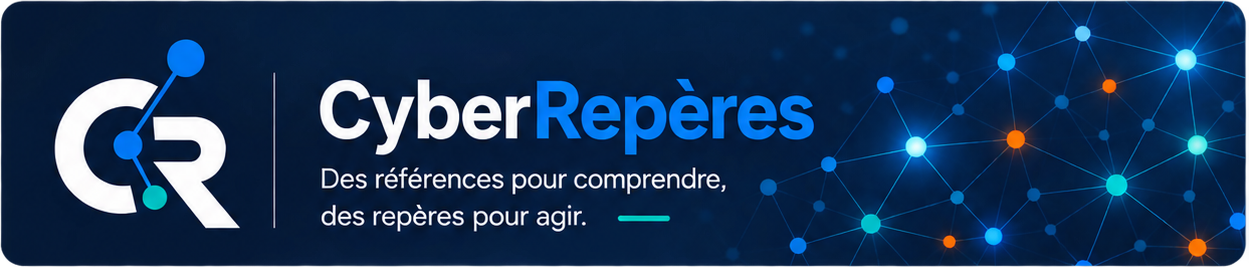
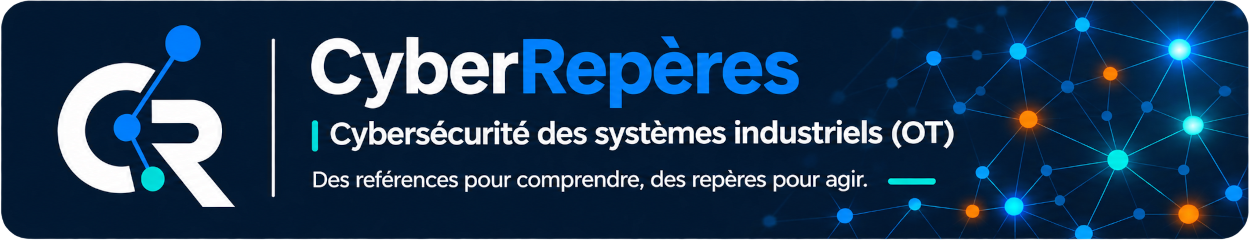
Ajout du catalogue des livrables et mise à jour de la bannière

diff --git a/comprendre/doc-livrables.md b/comprendre/doc-livrables.md
@@ -1,0 +1,179 @@
+---
+layout: default
+title: "Catalogue des livrables de cybersécurité industrielle"
+description: "Identifier les documents, analyses et éléments de preuve utiles à la maîtrise de la cybersécurité des systèmes industriels."
+category: "comprendre"
+date: 2026-11-01
+tags:
+  - livrables
+  - documentation
+  - référentiels
+  - IEC 62443
+  - cybersécurité industrielle
+revision: 2026-11-01
+chapter: "Documentation"
+order: 40
+comments: true
+---
+
+# Catalogue des livrables de cybersécurité industrielle
+
+La cybersécurité industrielle se traduit par des activités, des décisions et des mesures techniques. Pour être pilotées, vérifiées et maintenues dans le temps, celles-ci doivent également être **formalisées et tracées**.
+
+Ce catalogue recense des documents, analyses, dossiers et éléments de preuve susceptibles d'être produits dans le cadre d'un projet industriel ou de l'exploitation d'un système OT.
+
+Il a pour objectif d'aider les équipes projet, les exploitants, les métiers et les acteurs de la cybersécurité à répondre à plusieurs questions :
+
+- Quels livrables prévoir pour maîtriser la cybersécurité d'un système industriel ?
+- À quoi servent-ils et quelles activités permettent-ils de formaliser ?
+- Quels référentiels ou textes peuvent justifier leur production ?
+- Comment distinguer une exigence explicite d'un livrable utile pour démontrer un résultat attendu ?
+
+Le catalogue est un **outil de repérage et de travail**. Il ne constitue ni une liste universelle de documents obligatoires, ni un modèle documentaire à appliquer systématiquement à chaque projet.
+
+---
+
+## Consulter le catalogue détaillé
+
+Le fichier Excel constitue le support détaillé et évolutif du catalogue. Il présente, pour chaque livrable, son domaine, le niveau de besoin, les sources primaires identifiées, les éléments justifiant son intérêt, les dépendances possibles et les correspondances indicatives avec l'IEC 62443-2-1:2024.
+
+[ Télécharger le catalogue des livrables – format Excel ]({{ '/comprendre/sources/CyberReperes_catalogue_livrables_v2.4.xlsx' | relative_url }})
+
+---
+
+## Comprendre les niveaux de besoin
+
+Les livrables sont classés selon trois niveaux. Cette classification vise à éviter de présenter comme une obligation documentaire ce qui relève parfois d'un moyen d'ingénierie ou d'une bonne pratique.
+
+### 1 — Exigence
+
+Le texte réglementaire ou le référentiel applicable demande explicitement le document, l'information ou l'activité correspondante.
+
+**Attention :** l'exigence dépend toujours du champ d'application du texte, du type d'entité, du système concerné et du contexte réglementaire ou contractuel.
+
+### 2 — Induit
+
+Le référentiel impose un objectif ou un résultat. Le livrable identifié constitue un moyen structuré et pertinent pour le démontrer, sans que le document soit nécessairement nommé ou imposé sous cette forme.
+
+### 3 — Bonne pratique
+
+Le livrable facilite le cadrage, la conception, la contractualisation, la vérification, la traçabilité ou le transfert vers l'exploitation. Aucune exigence explicite imposant ce document sous cette appellation n'a été identifiée dans les sources examinées.
+
+### Une classification à contextualiser
+
+Un même livrable peut changer de niveau selon le périmètre étudié. Une cartographie peut, par exemple, relever d'une exigence réglementaire pour un SIIV, tandis qu'elle répondra à un autre cadre d'exigences dans un environnement différent.
+
+Le niveau indiqué dans le catalogue doit donc être lu avec les références et les réserves associées à chaque ligne. **L'absence d'une exigence explicite ne signifie pas qu'un livrable est inutile.**
+
+---
+
+## Panorama des livrables recensés
+
+La liste ci-dessous donne une vue d'ensemble des livrables recensés dans la version 2.4 du catalogue. Les intitulés sont regroupés par grands domaines pour faciliter la lecture ; certains documents peuvent naturellement relever de plusieurs domaines.
+
+### Gouvernance, conformité et gestion des risques
+
+- Politique de sécurité des systèmes d'information (PSSI)
+- Analyse de conformité du SI
+- Analyse de risques
+- Plan d'action de traitement des risques
+- Dossier d'homologation
+- Programme / stratégie d'exercices cyber
+- Dossier des exigences cyber applicables
+- Matrice de traçabilité des exigences
+- Dossier de mesures compensatoires
+
+### Architecture, cartographie et conception
+
+- Cartographie des systèmes d'information
+- Cartographie SIIV
+- Cartographie et inventaires
+- Dossier d'architecture technique (DAT)
+- Réseau / architecture d'administration dédiée
+- Dossier d'administration sécurisée
+- Dossier d'interconnexion
+- Architecture zones & conduits
+- Dossier de conception logicielle sécurisée
+- Dossier d'interfaces applicatives
+- Dossier de configuration PLC
+
+### Continuité, résilience et exploitation
+
+- Plan de continuité d'activité (PCA) / Plan de reprise d'activité (PRA)
+- DMIA / PRD documentés
+- Analyse d'impact sur l'activité (BIA)
+- Procédures de sauvegarde et restauration
+- Dossier de résilience / analyse des points uniques de défaillance (SPOF)
+- Dossier de transfert vers l'exploitation
+- Dossier TQC / As-Built
+
+### Configuration, maintien en condition et détection
+
+- Revue de configuration
+- Dossier / référentiel de configuration sécurisée
+- Dossier de journalisation / supervision
+- Dossier de gestion des vulnérabilités
+- Dossier de gestion des changements / Management of Change (MoC)
+- Gestion des programmes PLC
+- Plan de vérification et validation cyber
+
+### Assurance sécurité et audit
+
+- Programme d'audit de sécurité
+- Audit de sécurité
+- Audit d'architecture
+- Audit de configuration
+- Rapport d'audit de sécurité
+- Plan d'action issu des audits
+
+### Prestataires et chaîne d'approvisionnement
+
+- Plan d'assurance sécurité (PAS)
+- Évaluation cyber fournisseur
+- Matrice de conformité fournisseur
+- Dossier de télémaintenance fournisseur
+- Politique de sécurité de la chaîne d'approvisionnement
+- Critères de sélection et de contractualisation des fournisseurs
+- Plan de gestion des risques de la chaîne d'approvisionnement (C-SCRM)
+- Dossier de surveillance et de réévaluation des fournisseurs
+- SBOM / inventaire des composants logiciels
+
+---
+
+## Lire les correspondances avec l'IEC 62443
+
+Le catalogue propose également des rapprochements entre les livrables et des exigences de l'**IEC 62443-2-1:2024**, notamment dans les domaines de l'organisation, de la gestion de configuration, du réseau, de la gestion des composants, des accès, des événements et de la disponibilité.
+
+Ces correspondances sont **indicatives**. L'IEC 62443-2-1 décrit des exigences relatives au programme de sécurité du propriétaire d'actifs ; elle ne prescrit pas systématiquement un document portant le nom du livrable recensé.
+
+Un rapprochement signifie donc qu'un livrable peut contribuer à démontrer ou mettre en œuvre une exigence. Il ne doit pas être interprété automatiquement comme une obligation de produire un document distinct.
+
+---
+
+## Comment utiliser ce catalogue ?
+
+Le catalogue peut être utilisé à différentes étapes du cycle de vie d'un système industriel :
+
+- **En cadrage**, pour identifier les productions à prévoir et répartir les responsabilités.
+- **En conception**, pour relier les exigences de sécurité aux choix d'architecture et aux dossiers techniques.
+- **En réalisation et qualification**, pour organiser les vérifications, essais et preuves.
+- **Au transfert vers l'exploitation**, pour s'assurer que les informations nécessaires sont disponibles.
+- **En exploitation**, pour maintenir les référentiels, tracer les changements, suivre les vulnérabilités et préparer les audits.
+
+Il ne s'agit pas de produire systématiquement tous les documents de la liste. Le choix des livrables doit tenir compte du contexte industriel, de la criticité du système, des risques, des exigences réglementaires et contractuelles, ainsi que de l'organisation du projet et de l'exploitation.
+
+L'enjeu est de disposer d'une documentation **utile, cohérente, maintenue à jour et proportionnée aux besoins**, plutôt que d'accumuler des documents sans propriétaire ni usage opérationnel.
+
+---
+
+## Périmètre et limites
+
+Le catalogue est construit à partir de sources primaires et de référentiels identifiés dans le fichier Excel. Les références et les justifications sont précisées ligne par ligne.
+
+Certaines correspondances ou références restent signalées comme à vérifier ou à compléter. Elles ne doivent pas être considérées comme des exigences établies tant que le rattachement précis n'a pas été confirmé.
+
+Les textes réglementaires et les référentiels évoluent. Il convient donc de vérifier leur version en vigueur, leur applicabilité et les éventuelles exigences contractuelles propres au projet avant de retenir un livrable comme obligatoire.
+
+---
+
+*Catalogue CyberRepères — version 2.4.*
